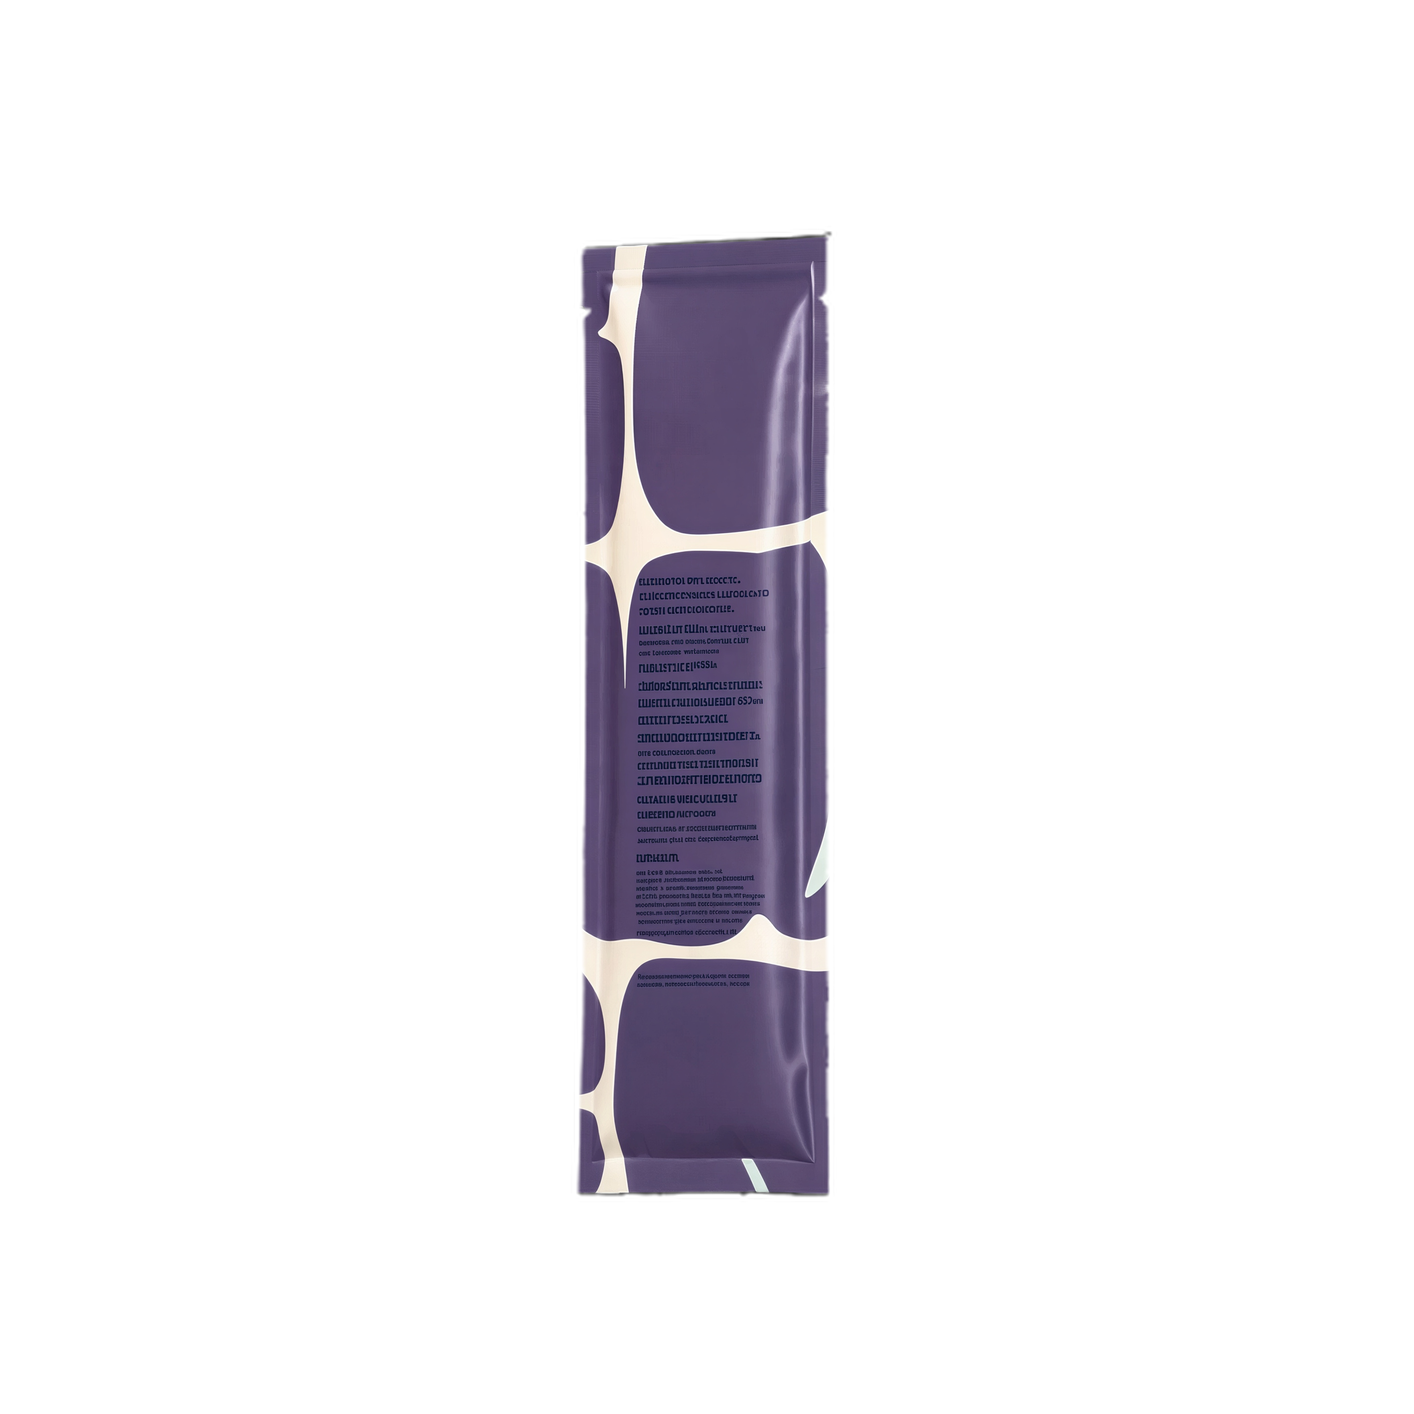
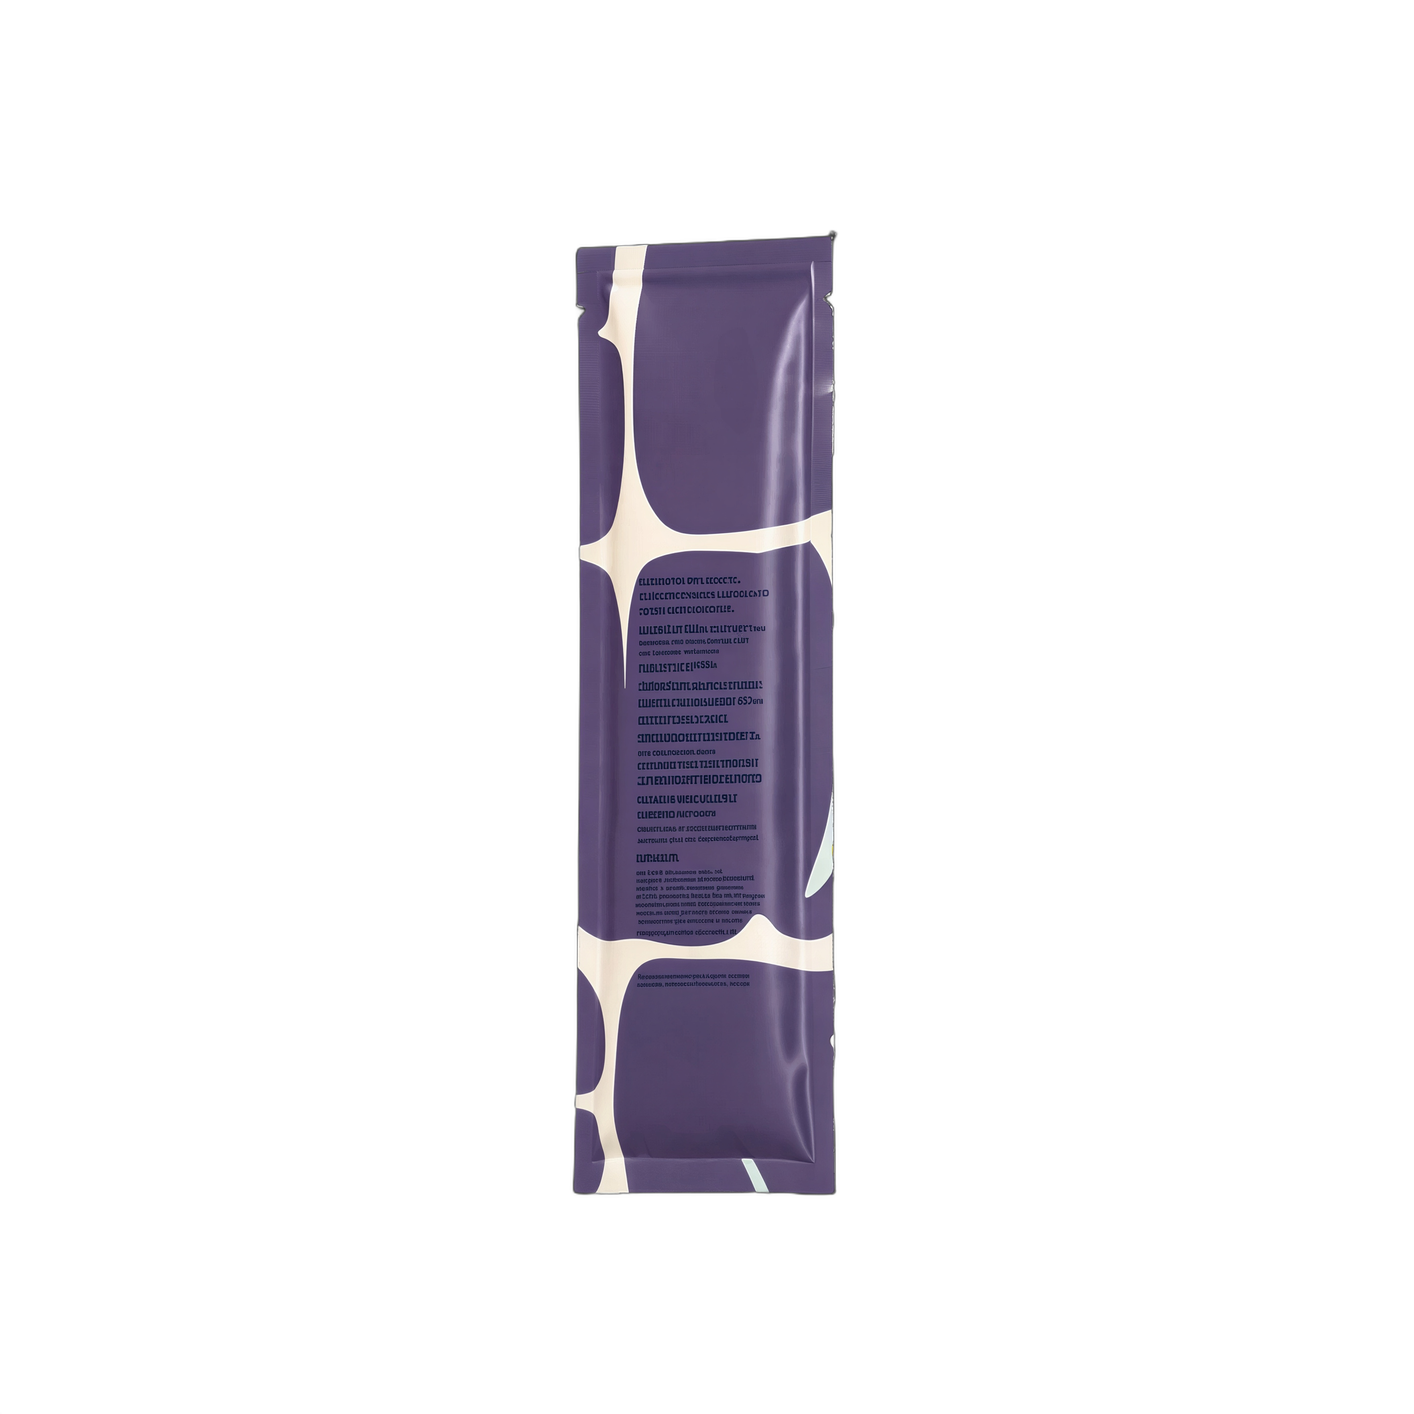
Use bid2_output RGBA directly — no alpha restore, eliminates black edges
Frames sourced directly from AI-upscaled bid2_output PNGs (own RGBA
transparency). Removed bil alpha mask overlay which caused edge artifacts.
Missing frames use nearest bid2_output equivalent.

Changed region(s): [[0.5601, 0.1556, 0.5912, 0.8402], [0.4045, 0.1556, 0.4356, 0.8402]]

diff --git a/components/sections/Section04_Features.tsx b/components/sections/Section04_Features.tsx
@@ -225,7 +225,7 @@ function FrameScrubber({
         loadedRef.current.add(i)
         if (i === 0) drawAt(0)
       }
-      img.src = `/frames/frame_${String(i).padStart(3, "0")}.png?v=8`
+      img.src = `/frames/frame_${String(i).padStart(3, "0")}.png?v=9`
       return img
     })
   }, [drawAt])
